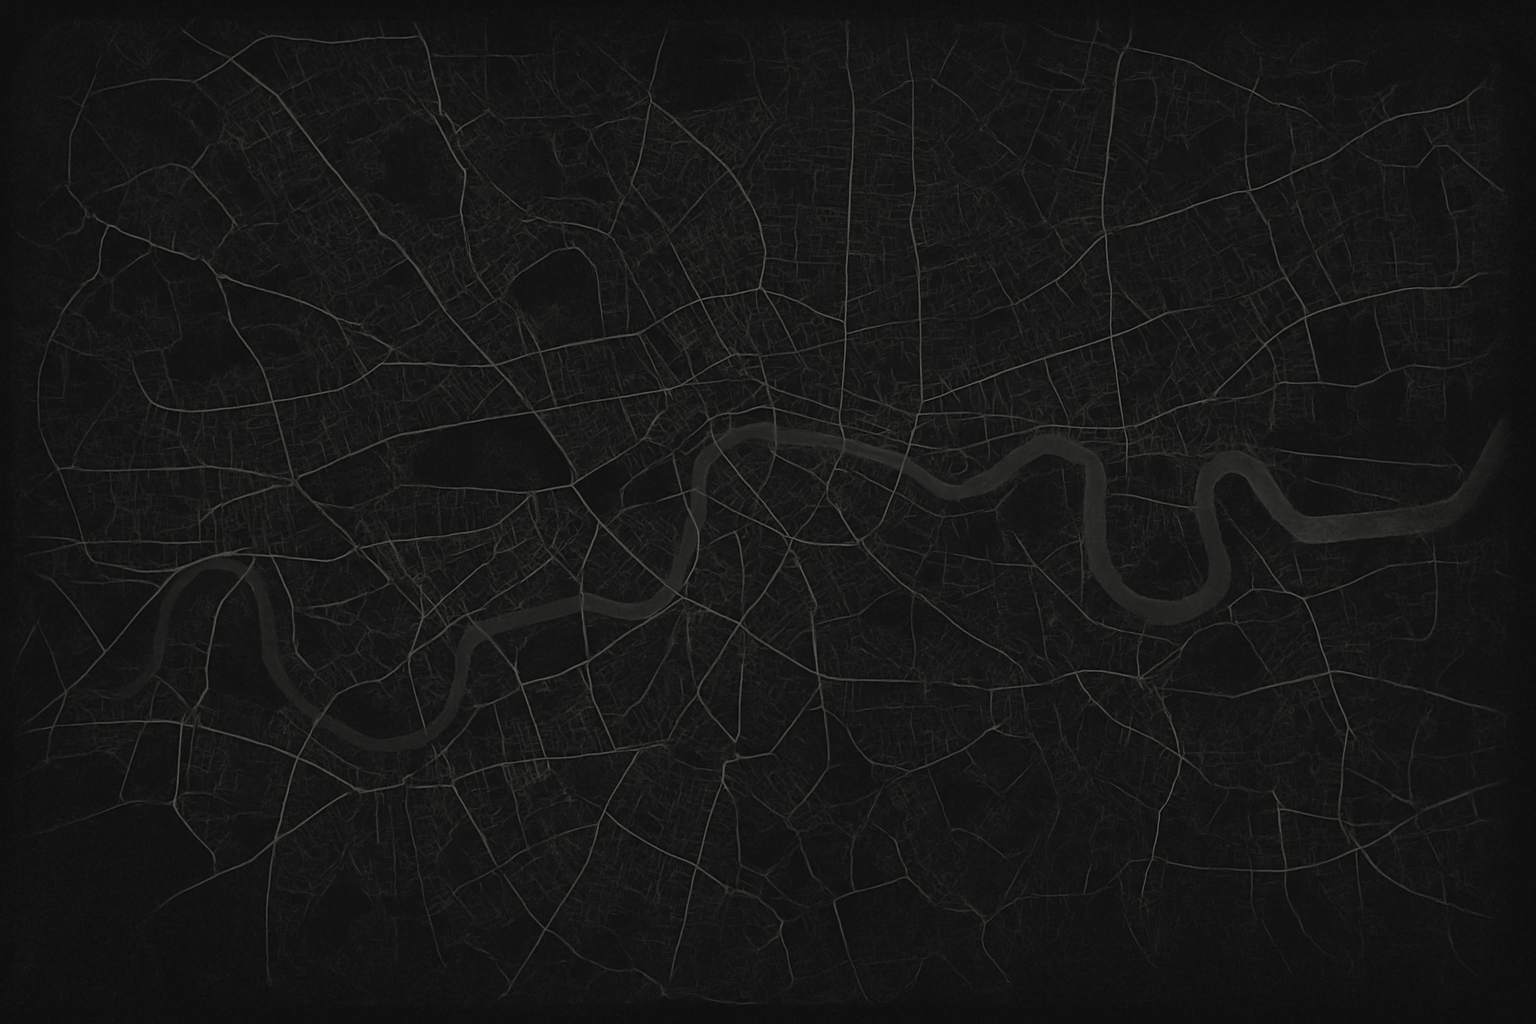
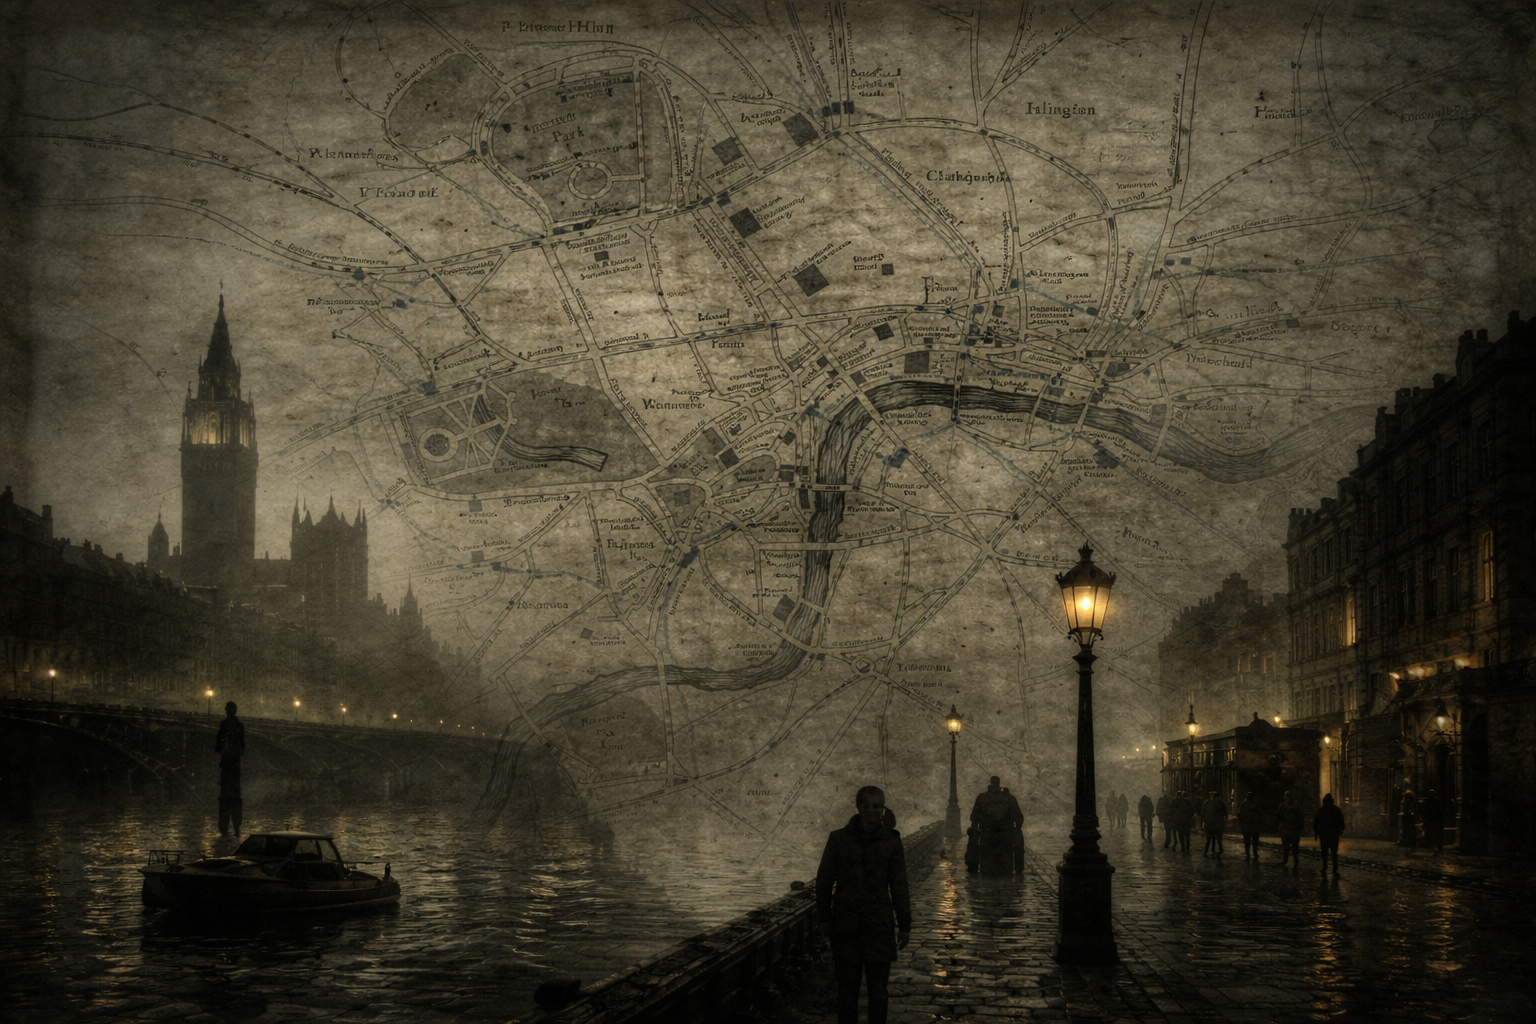
Fix map list

diff --git a/apps/game/src/components/locations/LocationsList.tsx b/apps/game/src/components/locations/LocationsList.tsx
@@ -63,7 +63,7 @@ export function LocationsList({
       onLocationClick(location);
     } else {
       // Default navigation
-      router.push(`/locations/${location._id}`);
+      router.push(`/locations/${location.slug}/chat`);
     }
   };
 
